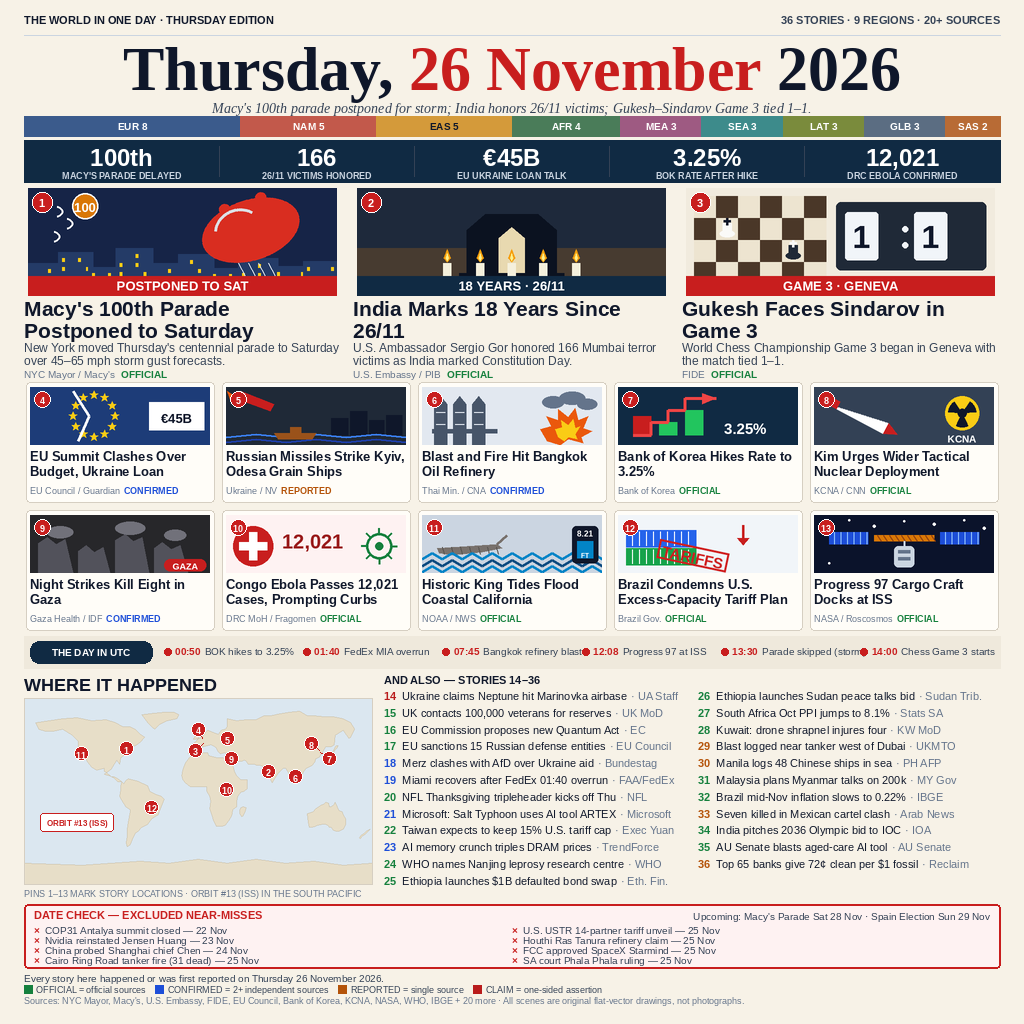
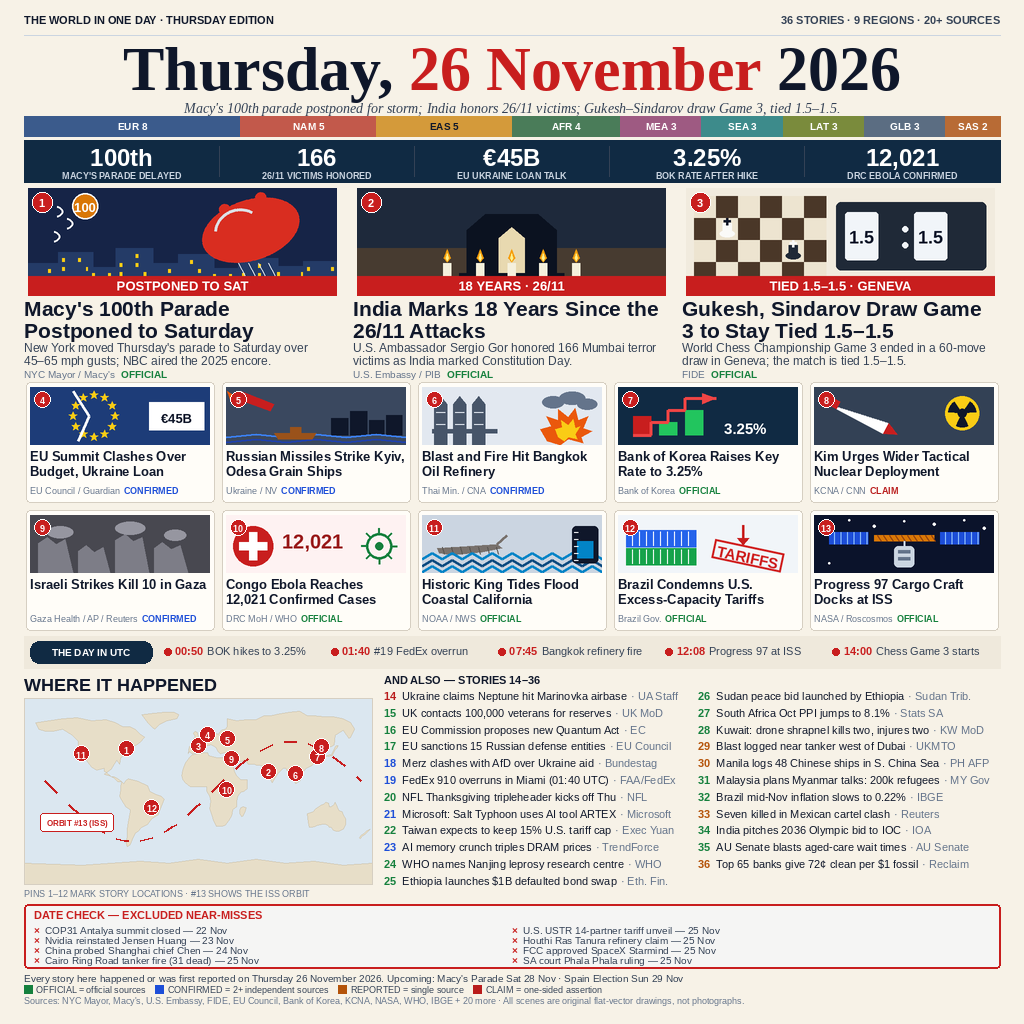
v4: Gaza 10, Kuwait 2 dead 2 injured, FedEx timezone, chess 1.5-1.5, map/ISS/DATE CHECK fixes

diff --git a/draw.py b/draw.py
@@ -1,12 +1,18 @@
 #!/usr/bin/env python3
-"""news-image-20261126 v2 — "one-page pictorial" front page (1024x1024 PNG).
+"""news-image-20261126 v4 — "one-page pictorial" front page (1024x1024 PNG).
 
 Hand-written in this session from the Antigravity v2 spec
-(~/workspace/makefun-news-image-20261126/v2-spec.md). Layout is entirely
-new (giant date masthead, 3 hero illustrations + 10 small cards, numbers
-band, UTC timeline, numbered-pin map, one-line list, DATE CHECK box);
-nothing is copied from the rejected v1 draw.py except the rough
-continent-outline polygon data used for the map.
+(~/workspace/makefun-news-image-20261126/v2-spec.md), then revised by hand
+through three review rounds plus a fresh-AI full review (2026-11-27).
+v4 changes: Gaza 10 (was 8), Kuwait 2 dead 2 injured, FedEx timezone,
+13:30 parade removed from the timeline, chess Game 3 drawn 1.5-1.5,
+map pins re-seated, ISS ground track redrawn across the equator,
+DATE CHECK back to a red frame, illustration small-text removed.
+Layout is entirely new (giant date masthead, 3 hero illustrations +
+10 small cards, numbers band, UTC timeline, numbered-pin map,
+one-line list, DATE CHECK box); nothing is copied from the rejected
+v1 draw.py except the rough continent-outline polygon data used for
+the map.
 
 Deterministic: no random/time/datetime, fixed font files, PNG saved with
 optimize=True, compress_level=9 and no metadata. Run:
@@ -37,7 +43,7 @@ GOLD = (217, 119, 6)           # #D97706 warm gold
 OCEAN = (219, 231, 240)        # #DBE7F0 map ocean
 LAND = (231, 222, 200)         # #E7DEC8 map land
 LAND_EDGE = (201, 191, 169)    # map land outline
-DC_BG = (254, 242, 242)        # #FEF2F2 DATE CHECK background
+DC_BG = (245, 245, 244)        # #F5F5F4 DATE CHECK background (muted stone)
 
 TAG_COLOR = {
     "OFFICIAL": (21, 128, 61),    # #15803D
@@ -60,7 +66,7 @@ EDITION_DATE = "Thursday, 26 November 2026"
 KICKER_LEFT = "THE WORLD IN ONE DAY · THURSDAY EDITION"
 KICKER_RIGHT = "36 STORIES · 9 REGIONS · 20+ SOURCES"
 DECK = ("Macy's 100th parade postponed for storm; India honors 26/11 "
-        "victims; Gukesh–Sindarov Game 3 tied 1–1.")
+        "victims; Gukesh–Sindarov draw Game 3, tied 1.5–1.5.")
 
 REGIONS = [
     ("Europe", "EUR", 8, "#3B5B8C"),
@@ -84,10 +90,9 @@ BY_THE_NUMBERS = [
 
 UTC_TIMELINE = [
     ("00:50", "BOK hikes to 3.25%"),
-    ("01:40", "FedEx MIA overrun"),
-    ("07:45", "Bangkok refinery blast"),
+    ("01:40", "#19 FedEx overrun"),
+    ("07:45", "Bangkok refinery fire"),
     ("12:08", "Progress 97 at ISS"),
-    ("13:30", "Parade skipped (storm)"),
     ("14:00", "Chess Game 3 starts"),
 ]
 
@@ -101,58 +106,60 @@ DATE_CHECK = [
     "FCC approved SpaceX Starmind — 25 Nov",
     "SA court Phala Phala ruling — 25 Nov",
 ]
-DATE_CHECK_UPCOMING = "Upcoming: Macy's Parade Sat 28 Nov · Spain Election Sun 29 Nov"
+UPCOMING_LINE = "Upcoming: Macy's Parade Sat 28 Nov · Spain Election Sun 29 Nov"
 
 # 36 stories, transcribed from spec section 7 JSON.
-# Deviation from spec, measured: story #19's line_text is shortened by one
-# word ("01:40 UTC" -> "01:40") because the full line is 315px at 11px and
-# the sub-column is 302px wide; every other row fits unchanged.
+# Deviation from spec, measured: story #19's line_text is reworded
+# ("FedEx 910 overruns in Miami (01:40 UTC)", 291px) so the UTC timezone
+# fits the 302px sub-column; the review's fuller wording
+# ("Miami recovers after FedEx 910 overrun (01:40 UTC)", 345px) does not
+# fit. Every other row fits unchanged.
 STORIES = [
     {"id": 1, "tier": "hero", "title": "Macy's 100th Parade Postponed to Saturday",
-     "summary": "New York moved Thursday's centennial parade to Saturday over 45–65 mph storm gust forecasts.",
+     "summary": "New York moved Thursday's parade to Saturday over 45–65 mph gusts; NBC aired the 2025 encore.",
      "region": "North America", "source": "NYC Mayor / Macy's", "tag": "OFFICIAL",
      "lon": -74.0, "lat": 40.7, "dx": 0, "dy": 0},
-    {"id": 2, "tier": "hero", "title": "India Marks 18 Years Since 26/11",
+    {"id": 2, "tier": "hero", "title": "India Marks 18 Years Since the 26/11 Attacks",
      "summary": "U.S. Ambassador Sergio Gor honored 166 Mumbai terror victims as India marked Constitution Day.",
      "region": "South Asia", "source": "U.S. Embassy / PIB", "tag": "OFFICIAL",
      "lon": 72.9, "lat": 19.1, "dx": 0, "dy": 0},
-    {"id": 3, "tier": "hero", "title": "Gukesh Faces Sindarov in Game 3",
-     "summary": "World Chess Championship Game 3 began in Geneva with the match tied 1–1.",
+    {"id": 3, "tier": "hero", "title": "Gukesh, Sindarov Draw Game 3 to Stay Tied 1.5–1.5",
+     "summary": "World Chess Championship Game 3 ended in a 60-move draw in Geneva; the match is tied 1.5–1.5.",
      "region": "Europe", "source": "FIDE", "tag": "OFFICIAL",
-     "lon": 6.1, "lat": 46.2, "dx": -8, "dy": 7},
+     "lon": 6.1, "lat": 46.2, "dx": -5, "dy": 2},
     {"id": 4, "tier": "card", "title": "EU Summit Clashes Over Budget, Ukraine Loan",
      "summary": "Brussels talks stalled on next long-term budget and a proposed €45B loan for Kyiv.",
      "region": "Europe", "source": "EU Council / Guardian", "tag": "CONFIRMED",
-     "lon": 4.4, "lat": 50.8, "dx": -4, "dy": -9},
+     "lon": 4.4, "lat": 50.8, "dx": 5, "dy": -4},
     {"id": 5, "tier": "card", "title": "Russian Missiles Strike Kyiv, Odesa Grain Ships",
      "summary": "Barrage injured seven in Kyiv and hit two foreign vessels carrying 100,000t of grain.",
-     "region": "Europe", "source": "Ukraine / NV", "tag": "REPORTED",
+     "region": "Europe", "source": "Ukraine / NV", "tag": "CONFIRMED",
      "lon": 30.5, "lat": 50.5, "dx": 0, "dy": 0},
     {"id": 6, "tier": "card", "title": "Blast and Fire Hit Bangkok Oil Refinery",
      "summary": "Bangchak hydrocracker explosion injured nine workers, halted output, and sparked brief local evacuations.",
      "region": "Southeast Asia", "source": "Thai Min. / CNA", "tag": "CONFIRMED",
-     "lon": 100.5, "lat": 13.8, "dx": 0, "dy": 0},
-    {"id": 7, "tier": "card", "title": "Bank of Korea Hikes Rate to 3.25%",
+     "lon": 100.5, "lat": 13.8, "dx": 0, "dy": -3},
+    {"id": 7, "tier": "card", "title": "Bank of Korea Raises Key Rate to 3.25%",
      "summary": "Central bank raised rates 25 bps on AI-boom inflation while KOSPI stocks rebounded.",
      "region": "East Asia", "source": "Bank of Korea", "tag": "OFFICIAL",
-     "lon": 127.0, "lat": 37.6, "dx": 9, "dy": 6},
+     "lon": 127.0, "lat": 37.6, "dx": -3, "dy": 4},
     {"id": 8, "tier": "card", "title": "Kim Urges Wider Tactical Nuclear Deployment",
      "summary": "KCNA reported Thursday that Kim inspected nuclear facilities Wednesday and refused denuclearization.",
-     "region": "East Asia", "source": "KCNA / CNN", "tag": "OFFICIAL",
-     "lon": 125.8, "lat": 39.0, "dx": -8, "dy": -7},
-    {"id": 9, "tier": "card", "title": "Night Strikes Kill Eight in Gaza",
-     "summary": "Israeli raids killed at least eight Palestinians, including Hamas official Khaled Abu Nada.",
-     "region": "Middle East", "source": "Gaza Health / IDF", "tag": "CONFIRMED",
+     "region": "East Asia", "source": "KCNA / CNN", "tag": "CLAIM",
+     "lon": 125.8, "lat": 39.0, "dx": 2, "dy": -4},
+    {"id": 9, "tier": "card", "title": "Israeli Strikes Kill 10 in Gaza",
+     "summary": "Israeli strikes killed at least 10 Palestinians, including Hamas official Khaled Abu Nada.",
+     "region": "Middle East", "source": "Gaza Health / AP / Reuters", "tag": "CONFIRMED",
      "lon": 34.5, "lat": 31.5, "dx": 0, "dy": 0},
-    {"id": 10, "tier": "card", "title": "Congo Ebola Passes 12,021 Cases, Prompting Curbs",
+    {"id": 10, "tier": "card", "title": "Congo Ebola Reaches 12,021 Confirmed Cases",
      "summary": "DRC outbreak hit 5,904 deaths as Canada, Bahamas, and Bahrain imposed traveler restrictions.",
-     "region": "Africa", "source": "DRC MoH / Fragomen", "tag": "OFFICIAL",
+     "region": "Africa", "source": "DRC MoH / WHO", "tag": "OFFICIAL",
      "lon": 29.5, "lat": 1.5, "dx": 0, "dy": 0},
     {"id": 11, "tier": "card", "title": "Historic King Tides Flood Coastal California",
      "summary": "El Niño–boosted surges broke pier structures and kept Thanksgiving coastal flood warnings active.",
      "region": "North America", "source": "NOAA / NWS", "tag": "OFFICIAL",
      "lon": -121.0, "lat": 36.0, "dx": 0, "dy": 0},
-    {"id": 12, "tier": "card", "title": "Brazil Condemns U.S. Excess-Capacity Tariff Plan",
+    {"id": 12, "tier": "card", "title": "Brazil Condemns U.S. Excess-Capacity Tariffs",
      "summary": "Brasília rejected Washington's newly unveiled tariffs and left reciprocal trade measures open.",
      "region": "Latin America", "source": "Brazil Gov.", "tag": "OFFICIAL",
      "lon": -47.9, "lat": -15.8, "dx": 0, "dy": 0},
@@ -176,7 +183,7 @@ STORIES = [
      "line_text": "Merz clashes with AfD over Ukraine aid",
      "short_source": "Bundestag", "tag": "CONFIRMED", "region": "Europe"},
     {"id": 19, "tier": "list", "title": "Miami Airport Recovers After FedEx Runway Overrun",
-     "line_text": "Miami recovers after FedEx 01:40 overrun",
+     "line_text": "FedEx 910 overruns in Miami (01:40 UTC)",
      "short_source": "FAA/FedEx", "tag": "CONFIRMED", "region": "North America"},
     {"id": 20, "tier": "list", "title": "NFL Thanksgiving Tripleheader Headlines Week 12 Slate",
      "line_text": "NFL Thanksgiving tripleheader kicks off Thu",
@@ -197,34 +204,34 @@ STORIES = [
      "line_text": "Ethiopia launches $1B defaulted bond swap",
      "short_source": "Eth. Fin.", "tag": "OFFICIAL", "region": "Africa"},
     {"id": 26, "tier": "list", "title": "Ethiopia Launches Inclusive Sudan Peace Dialogue Bid",
-     "line_text": "Ethiopia launches Sudan peace talks bid",
+     "line_text": "Sudan peace bid launched by Ethiopia",
      "short_source": "Sudan Trib.", "tag": "OFFICIAL", "region": "Africa"},
     {"id": 27, "tier": "list", "title": "South Africa Factory Inflation Jumps to 8.1%",
      "line_text": "South Africa Oct PPI jumps to 8.1%",
      "short_source": "Stats SA", "tag": "OFFICIAL", "region": "Africa"},
-    {"id": 28, "tier": "list", "title": "Kuwait Says Drone Debris Injured Four Workers",
-     "line_text": "Kuwait: drone shrapnel injures four",
+    {"id": 28, "tier": "list", "title": "Kuwait Says Drone Debris Killed Two, Injured Two",
+     "line_text": "Kuwait: drone shrapnel kills two, injures two",
      "short_source": "KW MoD", "tag": "OFFICIAL", "region": "Middle East"},
     {"id": 29, "tier": "list", "title": "Explosion Reported Near Tanker West of Dubai",
      "line_text": "Blast logged near tanker west of Dubai",
      "short_source": "UKMTO", "tag": "REPORTED", "region": "Middle East"},
     {"id": 30, "tier": "list", "title": "Manila Counts 48 Chinese Ships in Sea",
-     "line_text": "Manila logs 48 Chinese ships in sea",
+     "line_text": "Manila logs 48 Chinese ships in S. China Sea",
      "short_source": "PH AFP", "tag": "REPORTED", "region": "Southeast Asia"},
     {"id": 31, "tier": "list", "title": "Malaysia Plans Talks With Myanmar on Nationals",
-     "line_text": "Malaysia plans Myanmar talks on 200k",
+     "line_text": "Malaysia plans Myanmar talks: 200k refugees",
      "short_source": "MY Gov", "tag": "OFFICIAL", "region": "Southeast Asia"},
     {"id": 32, "tier": "list", "title": "Brazil Mid-November Inflation Slows to 0.22%",
      "line_text": "Brazil mid-Nov inflation slows to 0.22%",
      "short_source": "IBGE", "tag": "OFFICIAL", "region": "Latin America"},
     {"id": 33, "tier": "list", "title": "Seven Killed in Michoacán–Jalisco Cartel Shootout",
      "line_text": "Seven killed in Mexican cartel clash",
-     "short_source": "Arab News", "tag": "REPORTED", "region": "Latin America"},
+     "short_source": "Reuters", "tag": "REPORTED", "region": "Latin America"},
     {"id": 34, "tier": "list", "title": "India Presents 2036 Olympic Bid to IOC",
      "line_text": "India pitches 2036 Olympic bid to IOC",
      "short_source": "IOA", "tag": "OFFICIAL", "region": "South Asia"},
     {"id": 35, "tier": "list", "title": "Australian Senate Blasts Aged-Care Assessment Algorithm",
-     "line_text": "AU Senate blasts aged-care AI tool",
+     "line_text": "AU Senate blasts aged-care wait times",
      "short_source": "AU Senate", "tag": "OFFICIAL", "region": "Oceania & Global"},
     {"id": 36, "tier": "list", "title": "Top Banks Lag 6:1 Clean-Energy Ratio",
      "line_text": "Top 65 banks give 72¢ clean per $1 fossil",
@@ -442,7 +449,7 @@ def ill_2_mumbai():
                   fill=(245, 158, 11))
         d.polygon([(cx, 130), (cx + 3, 140), (cx, 146), (cx - 3, 140)],
                   fill=(254, 240, 138))
-    _banner(d, 618, 176, 40, "18 YEARS · 26/11", 26, fill=NAVY)
+    _banner(d, 618, 176, 40, "18 YEARS · 26/11", 26)
     return _finish(img, w, h)
 
 
@@ -468,16 +475,16 @@ def ill_3_chess():
          (15, 23, 42))
     king(16 + 4 * sq + sq // 2, 16 + 2 * sq + sq // 2, (31, 41, 55),
          (250, 250, 248))
-    # digital clock: dark slate box, two digit panels "1" and "1"
+    # digital clock: dark slate box, two digit panels "1.5" and "1.5"
     d.rounded_rectangle([300, 28, 600, 164], radius=10, fill=(31, 41, 55))
     for i, x0 in enumerate((318, 456)):
         d.rounded_rectangle([x0, 48, x0 + 66, 144], radius=6,
                             fill=(241, 245, 249))
-        f = _font(SANS_B, 64)
-        _draw_centered(d, x0 + 33, 62, "1", f, (15, 23, 42))
+        f = _font(SANS_B, 36)
+        _draw_centered(d, x0 + 33, 78, "1.5", f, (15, 23, 42))
     d.ellipse([432, 76, 444, 88], fill=(241, 245, 249))
     d.ellipse([432, 108, 444, 120], fill=(241, 245, 249))
-    _banner(d, 618, 176, 40, "GAME 3 · GENEVA", 26)
+    _banner(d, 618, 176, 40, "TIED 1.5–1.5 · GENEVA", 26)
     return _finish(img, w, h)
 
 
@@ -503,7 +510,7 @@ def ill_5_kyiv():
     """#5 Kyiv/Odesa — night sky, red missile, city, grain ship on waves."""
     w, h = 180, 58
     img, d = _ss(w, h)
-    d.rectangle([0, 0, 360, 116], fill=(31, 41, 55))           # #1F2937
+    d.rectangle([0, 0, 360, 116], fill=(58, 72, 95))           # lighter slate
     # city rectangles bottom-right with lit windows
     for x0, y0, x1 in ((210, 62, 244), (248, 48, 282), (286, 66, 316),
                        (320, 56, 352)):
@@ -592,8 +599,6 @@ def ill_8_nk():
         d.pieslice([cx - r + 6, cy - r + 6, cx + r - 6, cy + r - 6],
                    a0 - 26, a0 + 26, fill=(15, 23, 42))
     d.ellipse([cx - 9, cy - 9, cx + 9, cy + 9], fill=(15, 23, 42))
-    f = _font(SANS_B, 20)
-    _draw_centered(d, 296, 92, "KCNA", f, (255, 255, 255))
     return _finish(img, w, h)
 
 
@@ -601,7 +606,7 @@ def ill_9_gaza():
     """#9 Gaza — dark violet-gray field, broken buildings, smoke, GAZA tag."""
     w, h = 180, 58
     img, d = _ss(w, h)
-    d.rectangle([0, 0, 360, 116], fill=(39, 39, 42))           # #27272A
+    d.rectangle([0, 0, 360, 116], fill=(72, 72, 80))           # lighter gray
     # 4 damaged buildings with jagged tops
     for pts in ([(16, 116), (16, 56), (34, 44), (52, 58), (70, 48),
                  (86, 116)],
@@ -611,15 +616,11 @@ def ill_9_gaza():
                  (238, 116)],
                 [(248, 116), (248, 66), (264, 54), (282, 68), (300, 60),
                  (316, 116)]):
-        d.polygon(pts, fill=(82, 82, 91))
+        d.polygon(pts, fill=(125, 125, 135))
     # smoke ellipses
     for cx, cy, rx, ry in ((60, 34, 26, 12), (200, 26, 30, 13),
                            (290, 40, 22, 11)):
-        d.ellipse([cx - rx, cy - ry, cx + rx, cy + ry], fill=(113, 113, 122))
-    # red GAZA capsule bottom-right
-    d.rounded_rectangle([268, 88, 352, 112], radius=12, fill=RED)
-    f = _font(SANS_B, 18)
-    _draw_centered(d, 310, 92, "GAZA", f, (255, 255, 255))
+        d.ellipse([cx - rx, cy - ry, cx + rx, cy + ry], fill=(150, 150, 160))
     return _finish(img, w, h)
 
 
@@ -666,13 +667,11 @@ def ill_11_tides():
         for x in range(0, 361, 20):
             pts.append((x, y0 + (6 if (x // 20) % 2 == 0 else -6)))
         d.line(pts, fill=col, width=5)
-    # gauge pill with water height
+    # gauge pill with water height (no invented numbers: ticks + HIGH only)
     d.rounded_rectangle([300, 22, 352, 96], radius=8, fill=(15, 23, 42))
     d.rectangle([310, 52, 342, 86], fill=(2, 132, 199))
-    f = _font(SANS_B, 16)
-    _draw_centered(d, 326, 28, "8.21", f, (255, 255, 255))
-    f2 = _font(SANS_B, 13)
-    _draw_centered(d, 326, 74, "FT", f2, (255, 255, 255))
+    for ty in (34, 48, 62, 76, 90):
+        d.line([(304, ty), (312, ty)], fill=(255, 255, 255), width=2)
     return _finish(img, w, h)
 
 
@@ -689,15 +688,16 @@ def ill_12_brazil():
     # downward arrow
     d.line([(250, 20), (250, 52)], fill=(200, 30, 30), width=5)
     d.polygon([(250, 60), (238, 46), (262, 46)], fill=(200, 30, 30))
-    # red TARIFFS stamp, rotated -12 degrees
+    # red TARIFFS stamp, rotated -12 degrees, on the light right side
+    # (clear of the green/blue containers so the red does not clash)
     layer = Image.new("RGBA", (360, 116), (0, 0, 0, 0))
     ld = ImageDraw.Draw(layer)
     f = _font(SANS_B, 30)
     tw = ld.textlength("TARIFFS", font=f)
-    ld.rectangle([150 - tw / 2 - 8, 62, 150 + tw / 2 + 8, 100],
+    ld.rectangle([260 - tw / 2 - 8, 62, 260 + tw / 2 + 8, 100],
                  outline=(200, 30, 30, 255), width=4)
-    ld.text((150 - tw / 2, 68), "TARIFFS", font=f, fill=(200, 30, 30, 255))
-    layer = layer.rotate(-12, resample=Image.BICUBIC, center=(150, 81))
+    ld.text((260 - tw / 2, 68), "TARIFFS", font=f, fill=(200, 30, 30, 255))
+    layer = layer.rotate(-12, resample=Image.BICUBIC, center=(260, 81))
     img.paste(layer, (0, 0), layer)
     return _finish(img, w, h)
 
@@ -755,6 +755,17 @@ def draw_pins(d, map_x, map_y, map_w, map_h):
         return (map_x + (lon + 180) / 360 * map_w,
                 map_y + (90 - lat) / 180 * map_h)
 
+    # dashed ISS ground-track: centred on the equator, amplitude ~50px so
+    # the wave reaches about +/-51.6 deg latitude (the real ISS inclination)
+    import math
+    prev = None
+    for x in range(map_x + 8, map_x + map_w - 8, 4):
+        t = (x - map_x) / map_w
+        y = map_y + map_h * 0.5 + 50 * math.sin(t * math.pi * 2.2 - 0.6)
+        if prev is not None and (x // 12) % 2 == 0:
+            d.line([prev, (x, y)], fill=RED, width=2)
+        prev = (x, y)
+
     for s in STORIES:
         if s["tier"] == "list":
             continue
@@ -776,7 +787,7 @@ def draw_pins(d, map_x, map_y, map_w, map_h):
         if dx or dy:
             d.line([(x, y), (x + dx, y + dy)], fill=RED, width=1)
             x, y = x + dx, y + dy
-        _badge(d, x, y, 7, sid)
+        _badge(d, x, y, 8, sid)
 
 
 # -------------------------------------------------------------------- main
@@ -889,9 +900,9 @@ def main():
     f_tl_cap = _font(SANS_B, 10)
     _draw_centered(d, MX + 67, 646, "THE DAY IN UTC", f_tl_cap,
                    (255, 255, 255))
-    f_tl_t = _font(SANS_B, 10)
-    f_tl_l = _font(SANS_R, 10)
-    slot_x, slot_w = MX + 140, (MX + CW - (MX + 140)) / 6
+    f_tl_t = _font(SANS_B, 11)
+    f_tl_l = _font(SANS_R, 11)
+    slot_x, slot_w = MX + 140, (MX + CW - (MX + 140)) / len(UTC_TIMELINE)
     for i, (time, label) in enumerate(UTC_TIMELINE):
         cx = slot_x + slot_w * i
         d.ellipse([cx, 648, cx + 7, 655], fill=RED)
@@ -908,8 +919,8 @@ def main():
     d.rectangle([MX, 698, MX + 348, 698 + 186], outline=BORDER, width=1)
     draw_pins(d, MX, 698, 348, 186)
     f_map_f = _font(SANS_R, 9)
-    d.text((MX, 888), "PINS 1–13 MARK STORY LOCATIONS · ORBIT #13 (ISS) "
-                      "IN THE SOUTH PACIFIC", font=f_map_f, fill=GRAY)
+    d.text((MX, 888), "PINS 1–12 MARK STORY LOCATIONS · #13 SHOWS THE ISS ORBIT",
+           font=f_map_f, fill=GRAY)
 
     # --------------------------------- 8. one-line list, right (674..898)
     f_list_h = _font(SANS_B, 11)
@@ -940,10 +951,6 @@ def main():
     f_dc_t = _font(SANS_B, 11)
     d.text((MX + 10, 909), "DATE CHECK — EXCLUDED NEAR-MISSES",
            font=f_dc_t, fill=RED)
-    f_dc_u = _font(SANS_R, 10)
-    uw = d.textlength(DATE_CHECK_UPCOMING, font=f_dc_u)
-    d.text((MX + CW - 10 - uw, 910), DATE_CHECK_UPCOMING, font=f_dc_u,
-           fill=INK2)
     f_dc = _font(SANS_R, 10)
     for i, item in enumerate(DATE_CHECK):
         col, row = i // 4, i % 4
@@ -956,7 +963,7 @@ def main():
     f_f1 = _font(SANS_R, 10)
     d.text((MX, 972),
            "Every story here happened or was first reported on Thursday "
-           "26 November 2026.", font=f_f1, fill=INK2)
+           "26 November 2026. " + UPCOMING_LINE, font=f_f1, fill=INK2)
     f_f2 = _font(SANS_R, 9)
     fx = MX
     fy = 984
